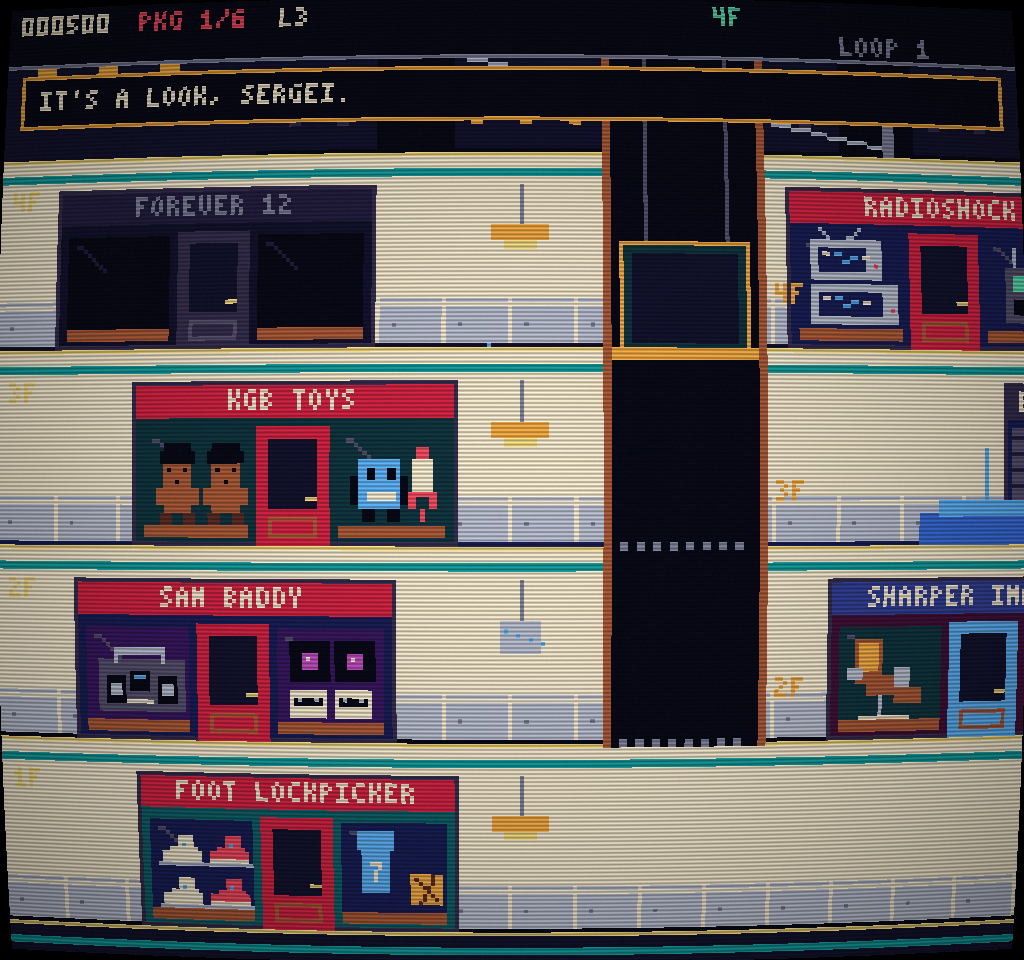
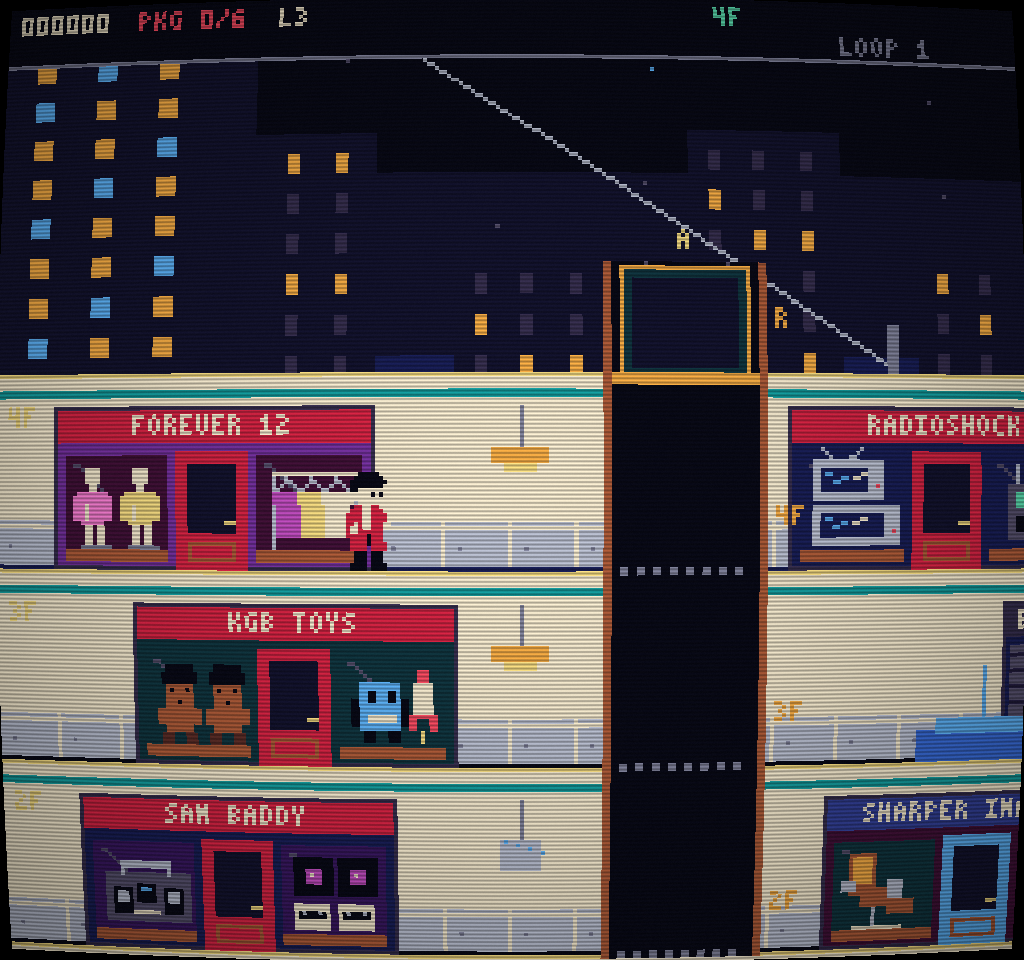
Frame rooftop arrival and mall play around the agent

diff --git a/src/render.rs b/src/render.rs
@@ -282,28 +282,36 @@ fn camera(g: &Game) -> (i32, i32) {
     };
     (
         (g.p.x - 120).clamp(0, 512) + shake,
-        (g.p.y - 142).clamp(0, 80),
+        (g.p.y - 142).clamp(-100, 80),
     )
 }
 fn mall(g: &Game, c: &mut Canvas) {
     let (cx, cy) = camera(g);
     sky(c);
+    let horizon = 40 - cy;
     for i in 0..16 {
         let x = i * 57 - cx / 4;
-        c.rect(x, 2, 38, 37, 1);
-        for wy in [8, 18, 28] {
-            for wx in [4, 16, 28] {
-                c.rect(x + wx, wy, 3, 5, if (i + wx) % 3 == 0 { 15 } else { 3 })
+        let h = 28 + (i * 31) % 61;
+        c.rect(x, horizon - h, 38, h, 1);
+        for wy in (horizon - h + 5..horizon - 3).step_by(10) {
+            for wx in [5, 16, 28] {
+                c.rect(
+                    x + wx,
+                    wy,
+                    3,
+                    5,
+                    if (i + wx + wy) % 3 == 0 { 15 } else { 3 },
+                );
             }
         }
     }
-    c.rect(-cx, 0, 65, 40, 1);
-    for y in [4, 14, 24] {
+    c.rect(-cx, 0, 65, horizon, 1);
+    for y in (5..horizon - 4).step_by(10) {
         for x in [8, 24, 40] {
-            c.rect(x - cx, y, 5, 5, 15)
+            c.rect(x - cx, y, 5, 5, if (x + y) % 3 == 0 { 25 } else { 15 });
         }
     }
-    c.line(42 - cx, 0 - cy, 220 - cx, 38 - cy, 6);
+    c.line(42 - cx, -80 - cy, 220 - cx, 38 - cy, 6);
     c.rect(220 - cx, 28 - cy, 3, 12, 5);
     for (f, &fy) in FLOOR.iter().enumerate() {
         let y = fy - cy;
@@ -476,10 +484,24 @@ fn mall(g: &Game, c: &mut Canvas) {
         }
     }
     if g.scene == Scene::Arrival {
-        let t = g.scene_t.min(90) as i32;
-        let x = 42 + t * 2 - cx;
-        let y = if t < 80 { t / 3 + 2 - cy } else { 40 - cy };
-        agent(c, x, y - 24, g, false)
+        let t = g.scene_t.min(110) as i32;
+        if t < 62 {
+            let x = 42 + t * 2 - cx;
+            let y = -80 + t * 2 * 118 / 178 - cy;
+            agent(c, x, y + 4, g, false);
+            c.rect(x + 3, y, 2, 8, 7);
+            c.rect(x + 11, y, 2, 8, 7);
+        } else {
+            let x = (166 + (t - 62) * 2).min(210) - cx;
+            let bottom = (30 + (t - 62) * (t - 62) / 12).min(40) - cy;
+            agent(
+                c,
+                x,
+                bottom - 24 + if t > 78 && t < 94 { 5 } else { 0 },
+                g,
+                false,
+            );
+        }
     } else if g.p.hidden == 0 && (g.p.inv == 0 || g.frame / 5 % 2 == 0) {
         agent(c, g.p.x - cx, g.p.y - 24 - cy, g, false)
     }

diff --git a/README.md b/README.md
@@ -83,7 +83,7 @@ Simulation runs at 60 Hz with integer coordinates. Rendering is decoupled, catch
 
 ## Benchmark notes
 
-- Model: GPT-6.1 Sol (`gpt-6.1-sol`), medium reasoning setting.
+- Requested benchmark label: GPT-6.1 Sol (`gpt-6.1-sol`), medium. Runtime model/effort metadata was not independently introspected.
 - Date: 2026-11-14. Harness: Codex desktop, local macOS workspace and browser automation.
 - Duration: approximately 45 minutes for implementation, visual/audio revision and verification.
 - This is a **Rust-constrained, interactively revised run**, not a strict unchanged-prompt one-shot. The shared brief was read unchanged. The user required Rust and the exact branch name, criticised the first graphics pass, reported missing music, requested a look at the published Sonnet–Fable version, and asked for a more ambitious visual result. That version was viewed in the browser as a visual reference; its source/art/audio were not copied.
